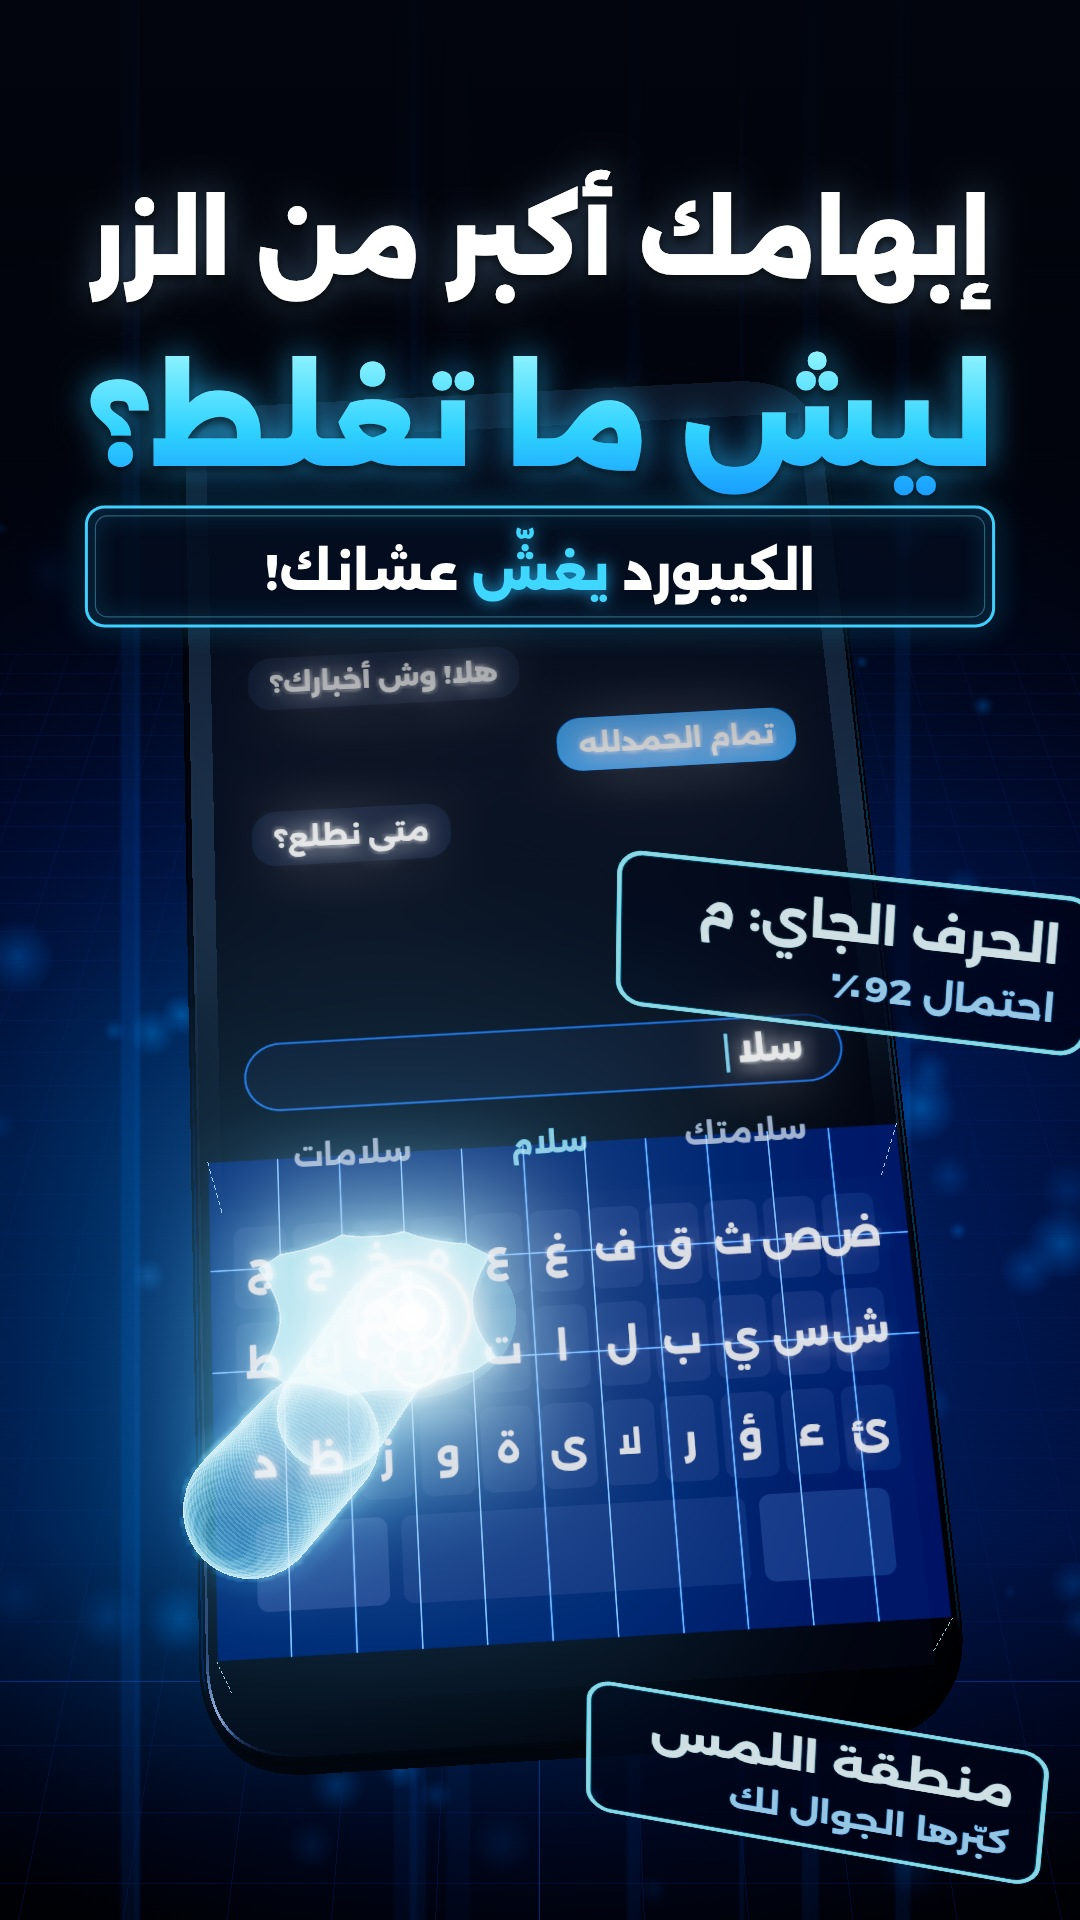
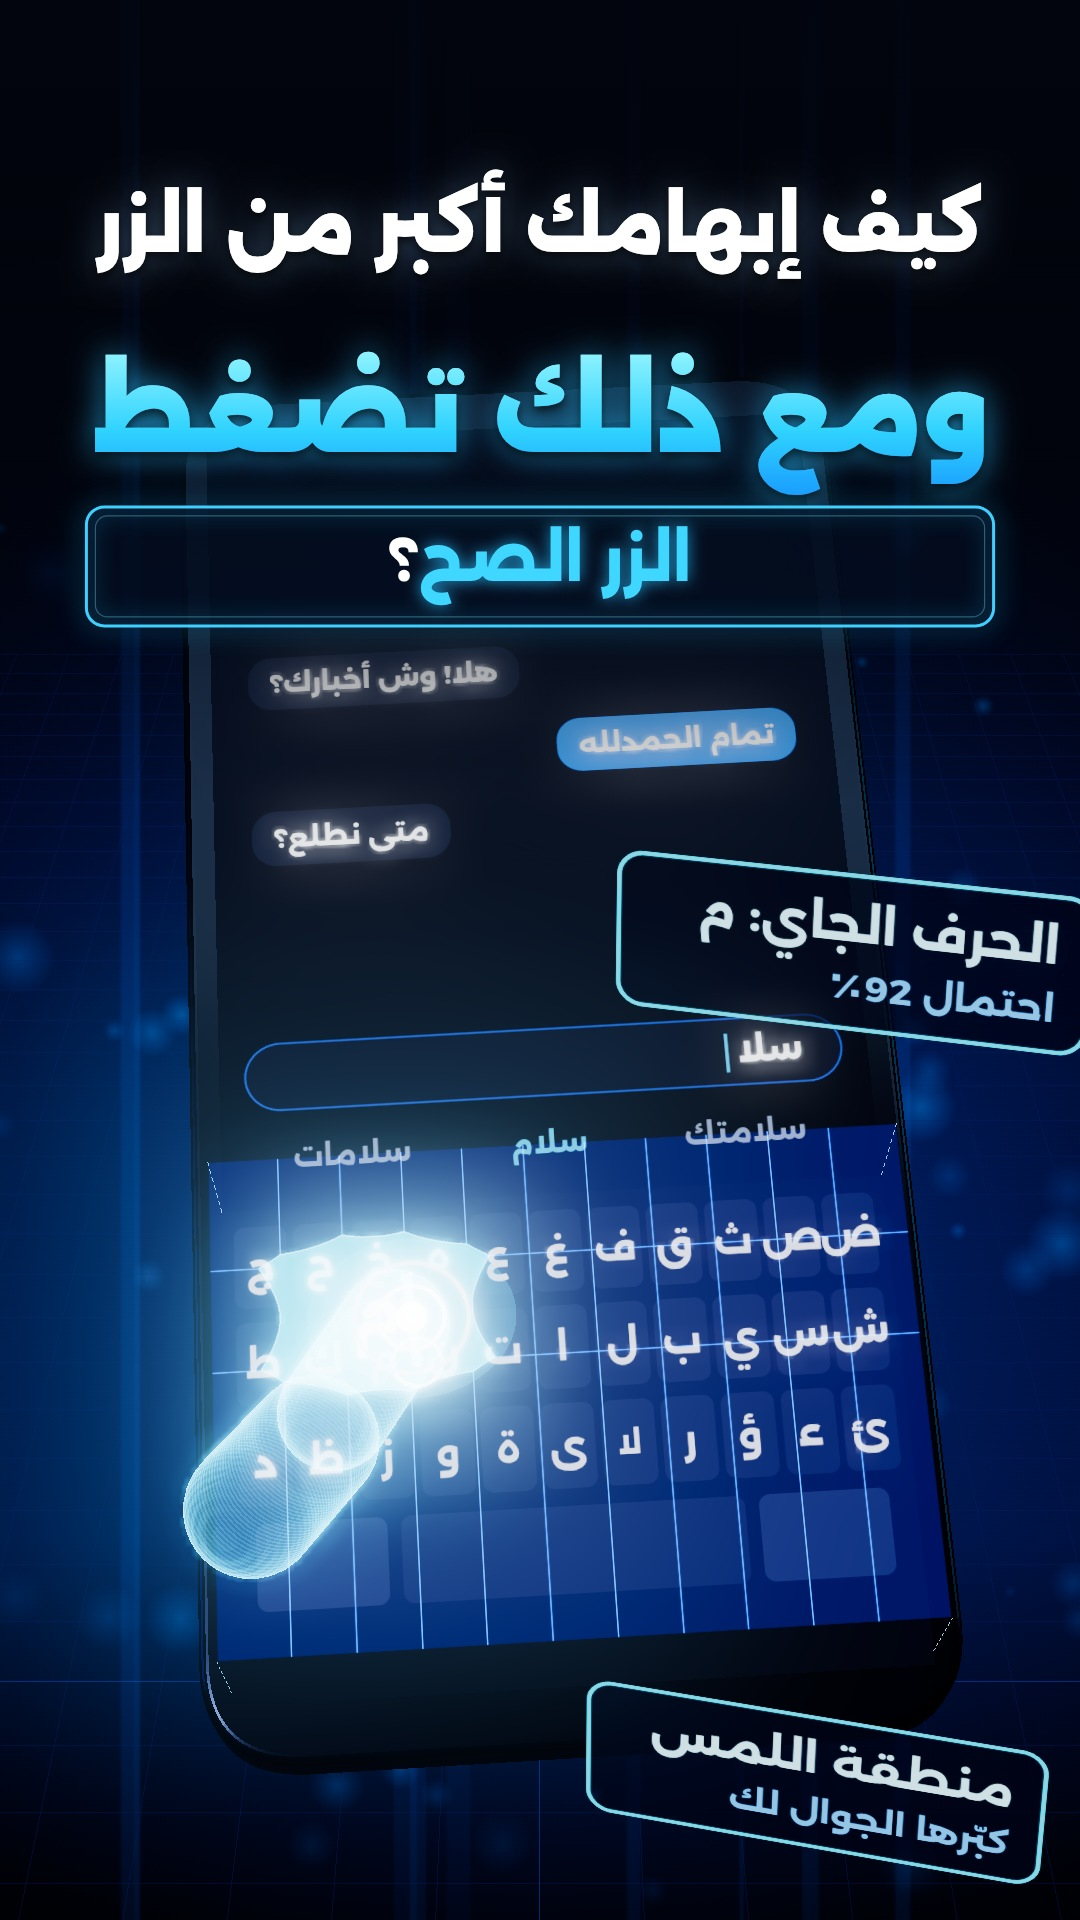
Keyboard cover: client's title wording
Claude-Session: https://claude.ai/code/session_01MQ692w9ZLAd5pMe74JjtAC

Changed region(s): [[0.0611, 0.0938, 0.9472, 0.3438]]

diff --git a/HANDOFF.md b/HANDOFF.md
@@ -264,7 +264,7 @@ All steps are scripts. Paths below assume a working dir `P` per video.
 
 ### I. PlayStation cover (Oct 28)
 - `output/playstation/KROZO_PlayStation_Cover.png/.jpg`: "كيف البلايستيشن يحوّل الـCD إلى لعبة كاملة؟". No video yet. Art is our own three.js scene (`project/playstation/cover/`, see `BUILD.md`) rendered with `project/tools/cover/shoot.mjs`; title set with the fixed cover layout.
-- Keyboard cover (Oct 30): `output/keyboard/KROZO_Keyboard_Cover.png/.jpg`. Title rewritten to be punchier: "إبهامك أكبر من الزر / ليش ما تغلط؟ / الكيبورد يغشّ عشانك!". Art: `project/keyboard/cover/` (see `BUILD.md`).
+- Keyboard cover (Oct 30): `output/keyboard/KROZO_Keyboard_Cover.png/.jpg`. Title (client wording): "كيف إبهامك أكبر من الزر / ومع ذلك تضغط / الزر الصح؟". Art: `project/keyboard/cover/` (see `BUILD.md`).
 
 ## 7. Known issues / bugs / caveats
 

diff --git a/project/keyboard/cover/BUILD.md b/project/keyboard/cover/BUILD.md
@@ -7,5 +7,5 @@ map lifted off the glass with the م zone swollen, holographic thumb landing bet
 ```
 cd project/tools/cover
 node shoot.mjs ../../keyboard/cover/index.html art.png
-node cover_title.mjs art.png ../../../output/keyboard/KROZO_Keyboard_Cover.png "إبهامك أكبر من الزر" "ليش ما تغلط؟" "الكيبورد [يغشّ] عشانك!"
+node cover_title.mjs art.png ../../../output/keyboard/KROZO_Keyboard_Cover.png "كيف إبهامك أكبر من الزر" "ومع ذلك تضغط" "[الزر الصح]؟"
 ```
